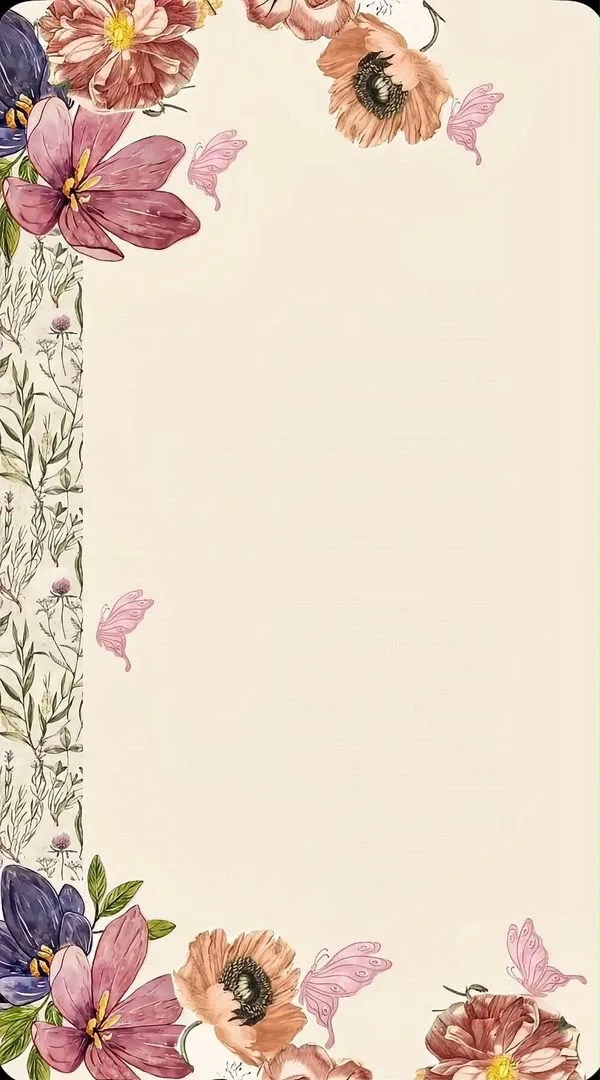
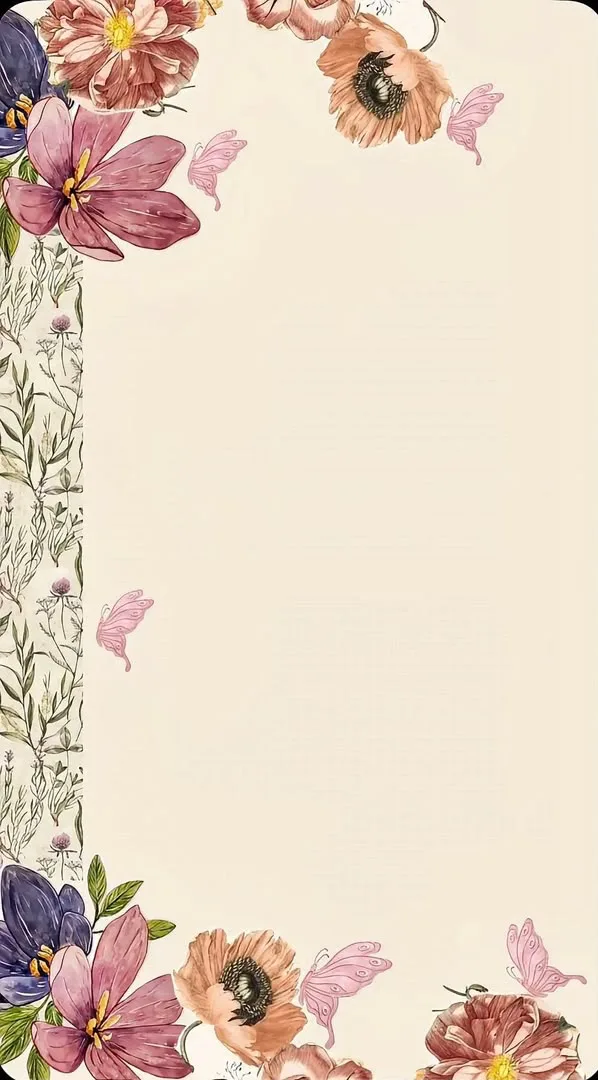
Trim the green line off the border, and sit the card on the same paper
Two seams down the right edge, from two different causes.

THE GREEN LINE was baked into the supplied artwork: its last two pixel
columns are green (measured 36/36 samples green at x=598 and x=599,
entirely clean at x<=597, top and bottom edges fine). Stretched across the
card by `object-fill` it read as a hairline down the page. The image is
re-cut from the original PNG at 598px wide rather than re-encoding the
WebP, so this does not add a second generation of lossy compression.

THE SECOND EDGE was the page behind the card. On a wide screen the card is
480px centred, and the body sat on `--color-sand` while the card sat on
`--color-cream` — two creams a shade apart, which shows as a line down
both sides. The body now uses the same paper. `--color-sand` keeps its job
as a fill colour inside the card; it just should not be the surface the
card rests on.

Claude-Session: https://claude.ai/code/session_01XJVUuLFzB3hSxaUSvkgxpo

diff --git a/src/app/globals.css b/src/app/globals.css
@@ -58,7 +58,14 @@ html[data-script-font="cormorantGaramond"] {
  *  3. A faint gold tint at the very top, picking up the goldenrod accent.
  */
 body {
-  background-color: var(--color-sand);
+  /*
+   * The same paper as the card, not `--color-sand`. On a wide screen the
+   * card is 480px centred and the page shows either side of it; two creams
+   * a shade apart put a visible seam down both edges. `--color-sand` still
+   * does its job as a FILL colour inside the card — it just should not be
+   * the surface the card sits on.
+   */
+  background-color: var(--color-cream);
   background-image:
     radial-gradient(ellipse 90% 45% at 50% 0%, #FCF9F3 0%, transparent 70%),
     radial-gradient(ellipse 120% 55% at 50% 100%, #E9DCC6 0%, transparent 65%),
